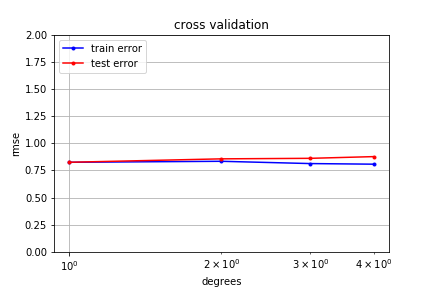
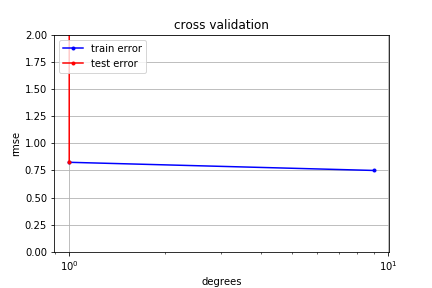
Add current

diff --git a/scripts/cross_validation.py b/scripts/cross_validation.py
@@ -110,7 +110,7 @@ def cross_validation_ridge_demo(y, x):
     # define lists to store the loss of training data and test data
      
     count = 0
-    degree = np.arange(1,5)
+    degree = [1,9]
     global_min_tr = []
     global_min_te = []
     best_lambdas = []
